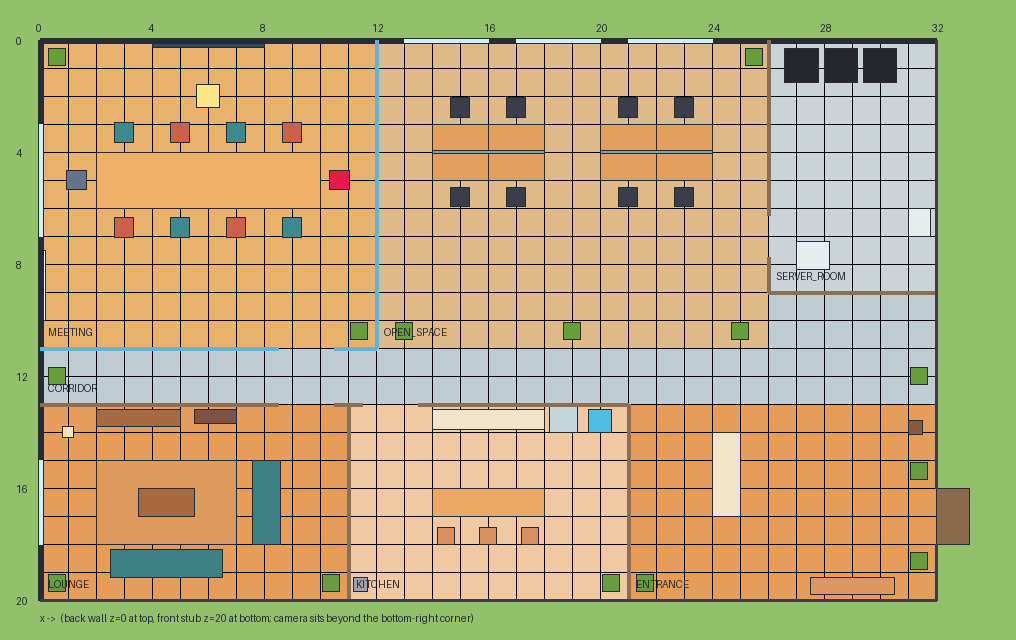
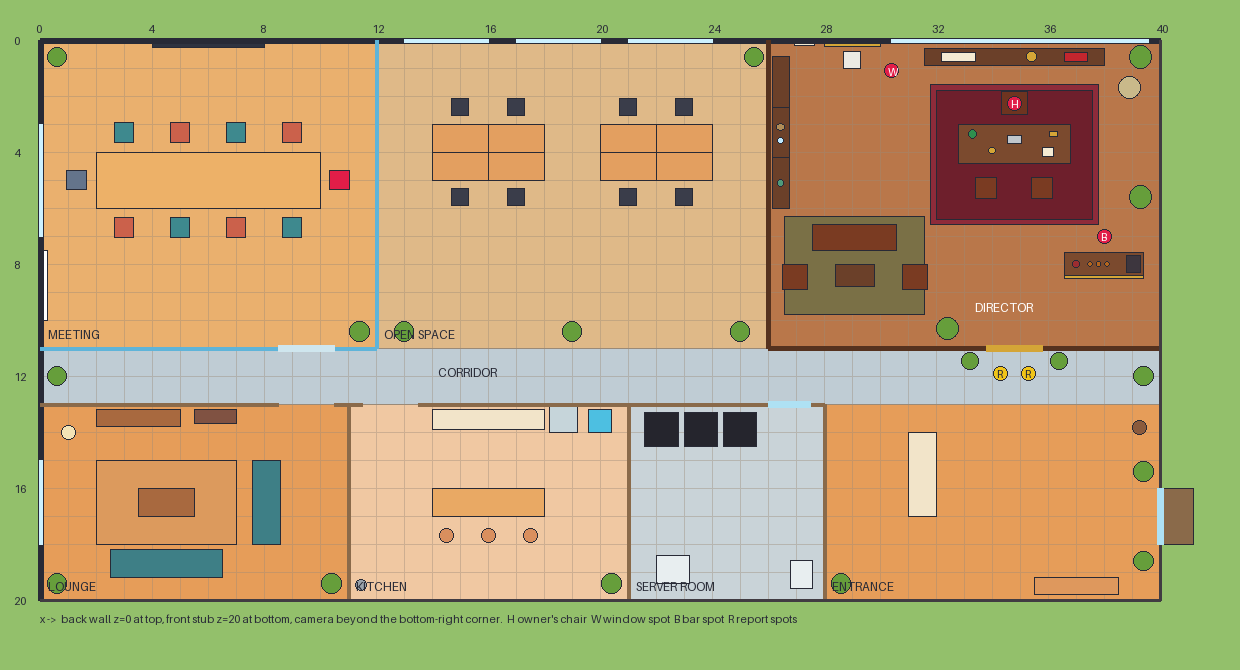
design: council office reference with the director's office (design-lead thr_vmeg8ixse2)

diff --git a/.agents/design/council-office/reference.md b/.agents/design/council-office/reference.md
@@ -4,69 +4,69 @@ Files in this folder:
 
 | File | What it is |
 |---|---|
-| `reference.jpg` | **Target look** (3168×1344, ≈21:9). Variant A, chosen. |
-| `plan.png` | Top-down plan drawn from the grid below. **Geometry comes from this file and this doc, not from the picture.** |
-| `reference.jpg` | Same as reference.jpg |
-| `variants/variant-b-meeting-centre.png` | Alternative: meeting room in the centre. Its floor is an irregular hexagon, which is harder to build and wastes width. Not chosen. |
-| `variants/variant-c-flash.png` | Cheaper-model draft. The open space is cropped at the top. Not chosen. |
-| `variants/prompt-a.txt` | Prompt used (Gemini 3 Pro Image, 21:9, 2K) |
+| `reference.jpg` | **Target look** (2400×1018, ≈21:9). Variant «v5-extend-a», chosen: variant A's floor extended to the right with the director's office. |
+| `plan.png` | Top-down plan drawn from the grid below (H/W/B/R mark the owner's spots and the report spots). **Geometry comes from this file and this doc, not from the picture.** |
 | `layout.md`, `wireframe.html` | Page layout around the office |
 
-**How to use the picture.** An image model drew it, so the perspective is not consistent: the glass walls and back walls slope differently, and the room proportions drift. Copy from the picture: the **style** (crisp dark outlines, flat two-tone shading, warm palette, chibi people), the **room set and their relative placement**, the **props**, and the **exterior lot** around the floor. Copy the **exact geometry** (sizes, doors, coordinates) from this doc.
+The full-size PNG, the rejected variants, the prompts and the plan script are kept out of the repo, in the design chat's folder `.bb/chats/thr_d6zg57egme/artifacts/council-office-design/`. The full-size PNG is `reference.png` (3168×1344), and `director-variants/` holds `v1`–`v5`, the prompts `p1`–`p5`, `gen.py` (Gemini 3 Pro Image, 21:9, 2K) and `plan.py`. The first floor without the director's office is `variants/variant-a-chosen.png`.
 
-Why variant A: it is a clean rectangle that maps onto one tile grid. All seven zones read at once. The meeting room is the biggest and brightest room, in the back-left corner where nothing occludes it. The floor fills the width, and grass, paving and sky fill the corners instead of a grey band.
+**How to use the picture.** An image model drew it, so the perspective is not consistent: the glass walls and back walls slope differently, and the room proportions drift. Copy from the picture: the **style** (crisp dark outlines, flat two-tone shading, warm palette, chibi people), the **room set and their relative placement**, the **props**, and the **exterior lot** around the floor. Copy the **exact geometry** (sizes, doors, coordinates) from this doc. Known differences in the picture: the entrance blends into the front of the director's office and has no reception desk (the doc has a closed director's office and a separate entrance); the director's door sits on the side partition (the doc puts it on the corridor wall); only part of the second desk cluster shows.
+
+Why v5-extend-a: of 7 tries (in `director-variants/`) it is the only one that kept every zone and all 8 desks while adding a rich director's office: walnut panelling, a double door, a bookshelf wall with statuettes, a panoramic window with a skyline, a credenza with a ship, a trophy and a model car, a bust, a globe, a Chesterfield corner, a bar with an espresso machine, and the owner at the desk. The others either replaced half the open space with the office (v1, v2), drifted in style (v3), or lost the lounge, kitchen or entrance (v4, v5-b).
 
 ---
 
 ## 1. Grid
 
-* 1 tile = 1 world unit. The floor is **32 tiles along X × 20 tiles along Z**.
-* Grid coords `(gx, gz)`: gx 0→32 from the left back wall to the right front edge, gz 0→20 from the back wall to the front edge.
-* World = `x = gx − 16`, `z = gz − 10`, `y` up, floor top at `y = 0`. This replaces today's 20×14 `FLOOR_BOUNDS` in `office-layout.ts`.
+* 1 tile = 1 world unit. The floor is **40 tiles along X × 20 tiles along Z** (it was 32×20; the director's office adds 8 tiles along X).
+* Grid coords `(gx, gz)`: gx 0→40 from the left back wall to the right front edge, gz 0→20 from the back wall to the front edge.
+* World = `x = gx − 20`, `z = gz − 10`, `y` up, floor top at `y = 0`. This replaces today's 20×14 `FLOOR_BOUNDS` in `office-layout.ts`.
 
 ```
      0         1         2         3
-     01234567890123456789012345678901
-z 0  MMMMMMMMMMMMOOOOOOOOOOOOOOSSSSSS     M meeting room (council)   12×11
-z 1  MMMMMMMMMMMMOOOOOOOOOOOOOOSSSSSS     O open space                14×11
-z 2  MMMMMMMMMMMMOOOOOOOOOOOOOOSSSSSS     S server room               6×9
-z 3  MMMMMMMMMMMMOOOOOOOOOOOOOOSSSSSS     C corridor (2 deep, full width + nook 6×2)
-z 4  MMMMMMMMMMMMOOOOOOOOOOOOOOSSSSSS     L lounge                    11×7
-z 5  MMMMMMMMMMMMOOOOOOOOOOOOOOSSSSSS     K kitchen / coffee point    10×7
-z 6  MMMMMMMMMMMMOOOOOOOOOOOOOOSSSSSS     E entrance / reception      11×7
-z 7  MMMMMMMMMMMMOOOOOOOOOOOOOOSSSSSS
-z 8  MMMMMMMMMMMMOOOOOOOOOOOOOOSSSSSS
-z 9  MMMMMMMMMMMMOOOOOOOOOOOOOOCCCCCC
-z10  MMMMMMMMMMMMOOOOOOOOOOOOOOCCCCCC
-z11  CCCCCCCCCCCCCCCCCCCCCCCCCCCCCCCC
-z12  CCCCCCCCCCCCCCCCCCCCCCCCCCCCCCCC
-z13  LLLLLLLLLLLKKKKKKKKKKEEEEEEEEEEE
-z14  LLLLLLLLLLLKKKKKKKKKKEEEEEEEEEEE
-z15  LLLLLLLLLLLKKKKKKKKKKEEEEEEEEEEE
-z16  LLLLLLLLLLLKKKKKKKKKKEEEEEEEEEEE
-z17  LLLLLLLLLLLKKKKKKKKKKEEEEEEEEEEE
-z18  LLLLLLLLLLLKKKKKKKKKKEEEEEEEEEEE
-z19  LLLLLLLLLLLKKKKKKKKKKEEEEEEEEEEE
+     0123456789012345678901234567890123456789
+z0   MMMMMMMMMMMMOOOOOOOOOOOOOODDDDDDDDDDDDDD     M meeting room (council)   12×11
+z1   MMMMMMMMMMMMOOOOOOOOOOOOOODDDDDDDDDDDDDD     O open space                14×11
+z2   MMMMMMMMMMMMOOOOOOOOOOOOOODDDDDDDDDDDDDD     D director's office        14×11  (owner)
+z3   MMMMMMMMMMMMOOOOOOOOOOOOOODDDDDDDDDDDDDD     C corridor (2 deep, full width 40)
+z4   MMMMMMMMMMMMOOOOOOOOOOOOOODDDDDDDDDDDDDD     L lounge                    11×7
+z5   MMMMMMMMMMMMOOOOOOOOOOOOOODDDDDDDDDDDDDD     K kitchen / coffee point    10×7
+z6   MMMMMMMMMMMMOOOOOOOOOOOOOODDDDDDDDDDDDDD     S server room               7×7
+z7   MMMMMMMMMMMMOOOOOOOOOOOOOODDDDDDDDDDDDDD     E entrance / reception      12×7
+z8   MMMMMMMMMMMMOOOOOOOOOOOOOODDDDDDDDDDDDDD
+z9   MMMMMMMMMMMMOOOOOOOOOOOOOODDDDDDDDDDDDDD
+z10  MMMMMMMMMMMMOOOOOOOOOOOOOODDDDDDDDDDDDDD
+z11  CCCCCCCCCCCCCCCCCCCCCCCCCCCCCCCCCCCCCCCC
+z12  CCCCCCCCCCCCCCCCCCCCCCCCCCCCCCCCCCCCCCCC
+z13  LLLLLLLLLLLKKKKKKKKKKSSSSSSSEEEEEEEEEEEE
+z14  LLLLLLLLLLLKKKKKKKKKKSSSSSSSEEEEEEEEEEEE
+z15  LLLLLLLLLLLKKKKKKKKKKSSSSSSSEEEEEEEEEEEE
+z16  LLLLLLLLLLLKKKKKKKKKKSSSSSSSEEEEEEEEEEEE
+z17  LLLLLLLLLLLKKKKKKKKKKSSSSSSSEEEEEEEEEEEE
+z18  LLLLLLLLLLLKKKKKKKKKKSSSSSSSEEEEEEEEEEEE
+z19  LLLLLLLLLLLKKKKKKKKKKSSSSSSSEEEEEEEEEEEE
 ```
 
-The open space has no wall to the corridor: the floor changes from carpet to vinyl, and three planters on gz 10.4 mark the edge. The entrance is also open to the corridor.
+The open space has no wall to the corridor: the floor changes from carpet to vinyl, and three planters on gz 10.4 mark the edge. The entrance is also open to the corridor. The director's office is the one closed room in the back row: walnut half walls on its west and south sides, and a door to the corridor. The server room moved from the back-right corner to the front row, between the kitchen and the entrance.
 
 ### Walls (on tile edges, grid coords)
 
 | Wall | Type | Line | Span | Openings |
 |---|---|---|---|---|
-| North back wall | back, full height **3.5**, thick 0.3 | gz = 0 | gx 0–32 | windows gx 13–16, 17–20, 21–24 (sill 0.9, top 2.9); wall screen gx 4–8 (y 1.3–2.6) |
+| North back wall | back, full height **3.5**, thick 0.3 | gz = 0 | gx 0–40 | windows gx 13–16, 17–20, 21–24 (sill 0.9, top 2.9); **panoramic window gx 30.4–39.6** (sill 0.6, top 3.2, 6 panes, mullions every 1.53, see §2 Director's office); wall screen gx 4–8 (y 1.3–2.6) |
 | West back wall | back, 3.5 | gx = 0 | gz 0–20 | windows gz 3–7 (meeting), gz 15–18 (lounge); whiteboard gz 7.5–10 (y 1.0–2.3) |
 | Meeting east | **glass**, 2.6 high, white frame posts every 2 tiles | gx = 12 | gz 0–11 | none |
 | Meeting south | **glass**, 2.6 | gz = 11 | gx 0–12 | glass double door **gx 8.5–10.5** |
-| Server west | half wall **1.4**, thick 0.2 | gx = 26 | gz 0–9 | door **gz 6.25–7.75**: door frame 2.2 high, door leaf open 90° |
-| Server south | half 1.4 | gz = 9 | gx 26–32 | none |
+| Director west | half wall **1.4**, thick 0.2, **walnut panelling** on both faces | gx = 26 | gz 0–11 | none |
+| Director south | half 1.4, walnut panelling | gz = 11 | gx 26–40 | **double door gx 33.8–35.8**: walnut leaves with brass handles, frame posts 2.4 high plus a 0.3 cornice over the opening; both leaves open inwards 90° (they stand along gx 33.8 and 35.8 between gz 10 and 11) |
 | Lounge north | half 1.4 | gz = 13 | gx 0–11 | doorway **gx 8.5–10.5** |
 | Lounge / kitchen | half 1.4 | gx = 11 | gz 13–20 | none |
 | Kitchen north | half 1.4 | gz = 13 | gx 11–21 | doorway **gx 11.5–13.5** |
-| Kitchen / entrance | half 1.4 | gx = 21 | gz 13–20 | none |
-| Front edge south | **stub 0.35** (cutaway) | gz = 20 | gx 0–32 | none |
-| Front edge east | stub 0.35 | gx = 32 | gz 0–20 | **entrance**: glass double door gz 16–18, frame posts 2.4 high, no lintel wall |
+| Kitchen / server | half 1.4 | gx = 21 | gz 13–20 | none |
+| Server north | half 1.4 (server wall colours) | gz = 13 | gx 21–28 | door **gx 26.0–27.5**: frame 2.2 high, glass leaf open 90° |
+| Server / entrance | half 1.4 | gx = 28 | gz 13–20 | none |
+| Front edge south | **stub 0.35** (cutaway) | gz = 20 | gx 0–40 | none |
+| Front edge east | stub 0.35 | gx = 40 | gz 0–20 | **entrance**: glass double door gz 16–18, frame posts 2.4 high, no lintel wall |
 
 Cutaway rule: only the north and west walls are full height. Every front-facing outer wall is a 0.35 stub. Interior walls stay at 1.4, so the rooms behind them stay visible at a 30° elevation (a 1.4 wall hides about 2.4 tiles behind it). Every wall top gets a dark cap (`outline`).
 
@@ -105,16 +105,68 @@ The floor slab is 0.5 thick. Its south and east sides show as a dark band (`slab
 
 gz 6–10 stays free: people walk there, and this area is where long-activity people stand and chat.
 
-### Server room
+### Director's office (the owner's cabinet, seat `owner`)
+The richest room on the floor: 14×11 (154 tiles; the meeting room is 132, the lounge 77, the server room 49). Floor: walnut parquet. Walls: walnut panelling on the two half walls; the north back wall stays cream around the panoramic window. Everything below is in grid coords; `+h` means it stands on the prop below.
+
+| # | Prop | Footprint / centre | h | Notes |
+|---|---|---|---|---|
+| 1 | **Panoramic window** | north wall gx 30.4–39.6 | sill 0.6, top 3.2 | 6 panes, white mullions every 1.53, diagonal highlight streaks; behind the glass a flat backdrop of skyline blocks and tree tops |
+| 2 | **Executive desk** | gx 32.8–36.8 × gz 3.0–4.4 | 0.8 | walnut, front modesty panel faces south (towards the door and the camera), 4 brass ball feet |
+| 3 | **Director's leather chair** (high back) | centre gx 34.8, gz 2.25, 0.9×0.8, faces south | seat 0.5, back 1.35 | tufted brown leather, brass studs. **Home point of `owner`** |
+| 4 | Guest chairs ×2 (leather) | centres gx 33.8 and 35.8, gz 5.3, 0.75×0.75, face north | back 1.0 | walnut frame, leather seat |
+| 5 | **Vintage desk lamp** (banker's lamp) | gx 33.3, gz 3.35 on the desk | +0.45 | brass stem, green glass shade, emissive `lamp glow` |
+| 6 | Laptop | gx 34.55–35.05 × gz 3.4–3.7 on the desk | +0.25 open | silver, screen `#77eaff` |
+| 7 | Gold «thinker» figurine | gx 34.0, gz 3.95 on the desk | +0.22 | gold |
+| 8 | Framed photo | gx 36.2, gz 3.35 on the desk | +0.2 | gold frame, faces north (towards the chair) |
+| 9 | Papers + pen set | gx 35.8–36.2 × gz 3.85–4.15 | flat | |
+| 10 | **Credenza** under the window | gx 31.6–38.0 × gz 0.3–0.9 | 0.75 | walnut, 4 doors, brass handles |
+| 11 | **Model sailing ship** | on the credenza, gx 32.2–33.4 × gz 0.45–0.75 | +0.6 | hull wood, 3 masts, cream sails, small stand |
+| 12 | **Trophy cup** (award) | on the credenza, gx 35.4, gz 0.6 | +0.55 | gold cup on a black base |
+| 13 | **Model car** (red vintage) | on the credenza, gx 36.6–37.4 × gz 0.45–0.75 | +0.2 | red body, chrome bumper |
+| 14 | **Bookshelf wall**: 3 built-in units | against the west wall, gx 26.15–26.75 × gz 0.6–2.4, 2.4–4.2, 4.2–6.0, face east | 2.4 | walnut; closed doors on the bottom 0.8; 4 shelves of books (book colours as the lounge bookshelf plus `leather` and `brass`) |
+| 15 | Bronze horse statuette | middle unit, shelf y 1.6, gx 26.45, gz 3.1 | 0.35 | bronze |
+| 16 | Crystal award (obelisk) | middle unit, shelf y 1.1, gx 26.45, gz 3.6 | 0.3 | crystal, opacity 0.8 |
+| 17 | Jade elephant figurine | south unit, shelf y 1.6, gx 26.45, gz 5.1 | 0.25 | jade |
+| 18 | **Marble bust on a pedestal** | pedestal gx 28.7–29.3 × gz 0.4–1.0 | pedestal 1.0 + bust 0.5 | marble column, classical head |
+| 19 | Gold-framed painting | north wall gx 28.0–30.0, y 1.8–2.9 | – | landscape canvas |
+| 20 | **Framed diplomas** ×2 | north wall gx 26.95–27.65, y 1.45–1.95 and y 2.15–2.65 | – | cream paper, walnut frame, red seal dot |
+| 21 | **Floor globe** on a stand | centre gx 38.9, gz 1.7, radius 0.4 | 1.1 (ball 0.6 on a 3-leg stand + brass meridian ring) | antique parchment ocean, olive land |
+| 22 | **Persian rug** under the desk | gx 31.8–37.8 × gz 1.6–6.6 | flat | burgundy field, gold border 0.2 wide, dark inner medallion |
+| 23 | Sitting-corner rug | gx 26.6–31.6 × gz 6.3–9.8 | flat | olive-brown |
+| 24 | **Chesterfield leather sofa** (3-seat) | gx 27.6–30.6 × gz 6.6–7.5, faces south | 0.85 | tufted brown leather, rolled arms |
+| 25 | Leather armchairs ×2 | gx 26.5–27.4 × gz 8.0–8.9 (faces east); gx 30.8–31.7 × gz 8.0–8.9 (faces west) | 0.85 | same leather |
+| 26 | Coffee table | gx 28.4–29.8 × gz 8.0–8.8 | 0.4 | walnut, a book and a small succulent on top |
+| 27 | **Mini bar / coffee corner** counter | gx 36.6–39.4 × gz 7.6–8.4 | 1.05 | walnut body, polished top, **brass foot rail** on the south face (gz 8.4–8.5, y 0.15) |
+| 28 | On the bar: decanter, 3 bottles, 2 glasses | decanter gx 37.0 gz 8.0; bottles gx 37.5, 37.8, 38.1 at gz 8.0; glasses gx 38.45 at gz 7.85 / 8.15 | +0.35 / +0.3 / +0.12 | decanter glass with red liquid, amber and green bottles |
+| 29 | Espresso machine | on the bar, gx 38.8–39.3 × gz 7.7–8.3 | +0.4 | dark body, brass details |
+| 30 | **Big plants** ×3 in brass pots | fiddle-leaf fig gx 39.3 gz 0.6 (h 1.9); bird of paradise gx 39.3 gz 5.6 (h 1.6); monstera gx 32.4 gz 10.3 (h 1.6) | | brass pots instead of terracotta |
+| 31 | Door plants ×2 (corridor side) | gx 33.2 and 36.4, gz 11.45, radius 0.3 | 1.3 | brass pots, they frame the door from the corridor |
+
+Interaction points (new; `assignedTo: "owner"` means nobody else may reserve them):
+
+| id | Where (grid) | Faces | Pose | Use |
+|---|---|---|---|---|
+| `pt_director_chair` | gx 34.8, gz 2.25 | south | `typing` (seated at a desk) | owner's home; `assignedTo: "owner"` |
+| `pt_director_window` | gx 30.4, gz 1.1 | north (back to the camera) | `window_gaze` | owner only |
+| `pt_director_bar` | gx 38.0, gz 7.0 (behind the bar, north side) | south | `drinking` | owner only |
+| `pt_director_report_1`, `_2` | gx 34.3 and 35.3, gz 11.9 (corridor, in front of the door) | north | `chatting` | council seats, «report» activity, capacity 1 each |
+
+Walking line inside the office: from the door (gx 33.8–35.8) straight north to the guest chairs, then around the east end of the desk (gx 37.0–37.4) to the chair. Keep gx 33.0–36.4 × gz 5.7–11 and gx 36.9–37.5 × gz 1.0–7.4 free of props.
+
+Occlusion check: the 2.4-high bookshelf hides the open-space floor at about gx 24–26 × gz 0–2.5 (only the plant at gx 25.5 gz 0.6, which may move to gx 24.6). The south half wall hides the office floor at gz 8.6–11, so the sofa corner sits at gz 6.3–9.8: the seat backs and the coffee table stay visible.
+
+### Server room (moved to the front row)
 | Prop | Footprint | h |
 |---|---|---|
-| Server racks ×3 | gx 26.6–27.8, 28.0–29.2, 29.4–30.6 × gz 0.3–1.5 | 2.4, green/blue LED rows |
-| Cable tray | along the north wall at y 2.8, gx 26.5–31.5 | posts down to each rack |
-| AC unit | gx 31.0–31.8 × gz 6–7 | 1.0 |
-| Printer | gx 27.0–28.2 × gz 7.2–8.2 | 0.9 (keeps `pt_printer`) |
+| Server racks ×3, faces south | gx 21.6–22.8, 23.0–24.2, 24.4–25.6 × gz 13.3–14.5 | 2.2, green/blue LED rows |
+| Cable tray | along the north wall at y 2.4, gx 21.5–25.8 | posts down to each rack |
+| AC unit | gx 26.8–27.6 × gz 18.6–19.6 | 1.0 |
+| Printer | gx 22.0–23.2 × gz 18.4–19.4 | 0.9; `pt_printer` at gx 22.6 gz 17.8, faces south |
+
+The racks rise above the 1.4 north wall and hide a strip of corridor floor behind them; nothing interactive stands there.
 
 ### Corridor
-Grey vinyl with a lighter edge strip. Plants at gx 0.6 gz 12 and gx 31.4 gz 12. Nothing else, so people can walk.
+Grey vinyl with a lighter edge strip. Plants at gx 0.6 gz 12 and gx 39.4 gz 12, plus the two brass-pot plants at the director's door (gx 33.2 and 36.4, gz 11.45). Nothing else, so people can walk.
 
 ### Lounge
 | Prop | Footprint | h |
@@ -140,21 +192,21 @@ Grey vinyl with a lighter edge strip. Plants at gx 0.6 gz 12 and gx 31.4 gz 12. 
 | Bin | gx 11.45 gz 19.45 | 0.5 |
 | Plant | gx 20.4 gz 19.4 | 1.2 |
 
-### Entrance / reception
+### Entrance / reception (shifted right: now gx 28–40)
 | Prop | Footprint | h |
 |---|---|---|
-| Reception desk (faces east to the door) | gx 24–25 × gz 14–17 | 1.0, monitor on top |
-| Coat stand with 2 coats | gx 31.25 gz 13.85 | 1.7 |
-| Bench | gx 27.5–30.5 × gz 19.2–19.8 | 0.45 |
+| Reception desk (faces east to the door) | gx 31–32 × gz 14–17 | 1.0, monitor on top |
+| Coat stand with 2 coats | gx 39.25 gz 13.85 | 1.7 |
+| Bench | gx 35.5–38.5 × gz 19.2–19.8 | 0.45 |
 | Glass double door | east stub gz 16–18 | 2.4 |
-| Doormat (outside) | gx 32–33.2 × gz 16–18 | flat |
-| Plants | gx 31.4 gz 15.4, gx 31.4 gz 18.6, gx 21.6 gz 19.4 | 1.2 |
-| Chat spot (2 people) | gx 28 gz 15 | keeps `pt_chat_entrance` |
+| Doormat (outside) | gx 40–41.2 × gz 16–18 | flat |
+| Plants | gx 39.4 gz 15.4, gx 39.4 gz 18.6, gx 28.6 gz 19.4 | 1.2 |
+| Chat spot (2 people) | gx 35 gz 15 | keeps `pt_chat_entrance` |
 
 ### Exterior lot (fills the corners of the frame)
-* A ground plane of **80×80** under the slab at `y = −0.5`, in grass. The camera never shows its edge.
-* A paving path 3 tiles wide from the entrance door (gx 33–80, gz 15.5–18.5), and paving along the south edge (gz 21–23) running out of frame.
-* Round trees (canopy is a 1.4 low-poly sphere or an octagon of boxes, trunk 0.3) at (−4, 6), (−3, 16), (8, 23), (26, 24), (36, 8), (40, 22). A street lamp at (35, 21). Small flower bushes along the slab edge.
+* A ground plane of **100×100** under the slab at `y = −0.5`, in grass. The camera never shows its edge.
+* A paving path 3 tiles wide from the entrance door (gx 41–90, gz 15.5–18.5), and paving along the south edge (gz 21–23) running out of frame.
+* Round trees (canopy is a 1.4 low-poly sphere or an octagon of boxes, trunk 0.3) at (−4, 6), (−3, 16), (8, 23), (30, 24), (44, 6), (48, 22) (grid coords). A street lamp at (43, 21). Small flower bushes along the slab edge.
 * Scene background = `sky`. No fog.
 
 ---
@@ -183,6 +235,9 @@ Base colour = what the lit top face shows (use it as the material colour). The s
 | Open space (north wall) | `#f7edd2` | `#e6cfaf` | windows: glass `#cdf1ff`, frame `#ffffff`, trees outside `#9fcf7a` |
 | Server room walls | `#e8eef0` | `#cfd8dd` | door `#aee1f4` glass in `#e1e7ea` frame |
 | Lounge / kitchen / entrance partitions | `#f9eed2` | `#e6cfaf` | top cap `#282a36` |
+| Director half walls (walnut panelling) | `#7a4a2e` | `#5e3721` | raised panels `#8a5a3c` with groove lines `#4a2a18`; top cap `#282a36`; brass trim line at y 1.3 `#d4a537` |
+| Director door | leaves `#6b4029`, panels `#7b4a2e` | `#55321f` | handles `#d4a537`; frame + cornice `#5e3721` |
+| Director panoramic window | glass `#cdf1ff` opacity 0.55 | – | mullions `#ffffff`; backdrop skyline `#9fb3c8` / `#b8c8d8`, tree tops `#9fcf7a` |
 | Front stubs | `#e6cfaf` | `#d1b893` | cap `#282a36` |
 
 ### Floors per zone
@@ -190,8 +245,9 @@ Base colour = what the lit top face shows (use it as the material colour). The s
 |---|---|---|
 | Meeting | honey wood `#eab06e` | plank lines `#cf8f4f` every 0.5 tile |
 | Open space | beige carpet `#dfb988` | speckle `#cba57a` |
+| Director's office | walnut parquet `#b9774a` | straight plank lines `#8f5532` every 0.5 tile |
 | Server room | light raised floor `#c9d3d8` | 1-tile grid `#aab6bd` |
-| Corridor + nook | grey vinyl `#bfccd4` | edge strip `#a9b8c2` |
+| Corridor | grey vinyl `#bfccd4` | edge strip `#a9b8c2` |
 | Lounge | warm wood `#e69d59` | plank lines `#c27e4a` |
 | Kitchen | tile `#f0c8a2` | grout `#d9a982` every 1 tile |
 | Entrance | warm wood `#e69d59` | plank lines `#c27e4a`; doormat `#8a6a4a` |
@@ -229,6 +285,29 @@ Base colour = what the lit top face shows (use it as the material colour). The s
 | Entrance door | glass `#aee1f4`, frame `#e1e7ea` |
 | Plants | leaf `#669e3b`, leaf shade `#518530`, pot `#ce6b4e` (or teal `#3e898e`), soil `#5a3d2b` |
 
+#### Director's office (shared tokens)
+| Token | Base | Shade / detail | Used for |
+|---|---|---|---|
+| `walnut` | `#7b4a2e` | `#5e3721` | executive desk, credenza, bar body, coffee table, bookshelf units (body `#6b4029`) |
+| `walnut top` | `#8f5a38` | edge `#6b4029` | desk / credenza / bar tops (polished) |
+| `leather` | `#7a3b22` | `#5c2a17`; tufting dots `#4a2112` | sofa, armchairs, guest chairs |
+| `leather dark` | `#6e3420` | `#4f2416`; studs `#d4a537` | director's chair |
+| `brass` | `#d4a537` | `#a87b1f`; highlight `#f2d37a` | handles, foot rail, trims, lamp stem, plant pots, globe ring |
+| `gold` | `#e8b923` | `#b88a14`; highlight `#fff0a8` | trophy cup, thinker figurine, painting frame |
+| `bronze` | `#b08d57` | `#7d5f33` | horse statuette |
+| `marble` | `#eceae4` | `#c9c5bb` | bust and pedestal |
+| `crystal` | `#bfe9ff` | `#8fcbe8` | crystal award (opacity 0.8), glasses |
+| `jade` | `#4f9a7a` | `#3a7a5e` | elephant figurine |
+| `rug burgundy` | `#8e2b3a` | inner `#6e1f2c`; border `#d4a537`; medallion `#3e898e` | Persian rug |
+| `rug olive` | `#7a7046` | border `#5e5636` | sitting-corner rug |
+| `lamp glow` | shade `#2f8f4e` | emissive `#9be7b0` 0.4 | banker's lamp |
+| `globe` | ocean `#c9b98a` | land `#8a9a5b`; stand `#5c3a24` | floor globe |
+| `ship` | hull `#8a5a3c` | sails `#f4ead2`, masts `#5c3a24` | model ship |
+| `car red` | `#c3262e` | `#8f1b22`; chrome `#d9dde2` | model car |
+| `bottles` | amber `#b5651d`, green `#3f6e3a` | decanter glass `#e3f1f5` with `#9b2d30` | mini bar |
+| `paper` | `#f4ead2` | seal `#c3182a` | diplomas, papers |
+| `canvas` | `#9fcf7a` | sky `#f0c070` | painting |
+
 ### People (chibi, about 2 heads tall)
 | Part | Colour |
 |---|---|
@@ -244,13 +323,38 @@ Size: 1.15 total height. Legs 0.4, torso 0.5×0.45×0.32, head a 0.42 cube with 
 ## 4. Camera, light and pixel look
 
 * `OrthographicCamera`. Direction from the target: **azimuth 33°** from +Z towards +X, **elevation 30°**. Offset = `R · (0.4716, 0.5, 0.7263)`, so with R = 60, camera at target + (28.3, 30.0, 43.6). This is the picture's view: the long north wall runs almost flat across the screen (slope ≈ 0.32) and the west wall drops steeper (≈ 0.77). Today's (12,14,12) 45° view cannot fill a wide block.
-* Target = floor centre (0, 0, 0). The projected bounds of slab + back walls are **37.7 × 20.6 units (1.83:1)**, centred 1.3 units above the target on screen. Shift the frustum by that.
-* **Fit = contain + 3 % padding**: `viewHeight = max(20.6, 37.7 / aspect) × 1.03`. A 1280×700 block (1.83) fits exactly. A 21:9 block shows the lot on both sides, and a tall block shows the lot above and below. No grey band at any size.
-* Mobile (block narrower than 640): start at **cover-height** zoom (`viewHeight = 20.6 × 1.03`) centred on the meeting table (world −10, 0, −5). One-finger drag pans, pinch zooms (clamp 1×–2.5× of contain). A «⌖» button recentres.
+* Target = floor centre (0, 0, 0) (= grid gx 20, gz 10). The projected bounds of slab + back walls are **44.4 × 22.7 units (1.95:1)** for the 40×20 floor (were 37.7 × 20.6 for 32×20), centred 1.3 units above the target on screen. Shift the frustum by that.
+* **Fit = contain + 3 % padding**: `viewHeight = max(22.7, 44.4 / aspect) × 1.03`. A 1280×656 block (1.95) fits exactly. A 21:9 block shows the lot on both sides, and a tall block shows the lot above and below. No grey band at any size.
+* Mobile (block narrower than 640): start at **cover-height** zoom (`viewHeight = 22.7 × 1.03`) centred on the meeting table (world −14, 0, −5). One-finger drag pans, pinch zooms (clamp 1×–2.5× of contain). A «⌖» button recentres.
 * Light: `AmbientLight(#ffffff, 0.72)` + `DirectionalLight(#fff5ea, 0.45)` from direction (1.0, 2.0, 0.35), so tops are brightest, +X faces lit and +Z faces one step darker (the wall pair `#f7edd2` / `#e6cfaf` above). No shadows. `MeshLambertMaterial` only.
 * Pixel look: `renderer.setPixelRatio(0.5)` on ≥ 768 (1 render pixel = 2 CSS px) and `0.75` below. Canvas CSS `image-rendering: pixelated`, `antialias: false`. HTML overlays (tags, bubbles) stay crisp on top.
 * Outlines: `EdgesGeometry(geom, 30)` + `LineBasicMaterial(#282a36)` on every box and person. At pixel ratio 0.5 they come out as 2 CSS px lines, like the picture.
 
-## 5. Out of scope for the scene
+## 5. Behaviour: the owner and the director's office
+
+Today `deriveOfficeActors` (`office-behaviour.ts`) adds the `owner` body only after the owner has written in the council, and `stepOfficeSimulation` (`office-layout.ts`) sends everyone to a meeting seat while a council is active. With the office, the rules change as follows.
+
+### The `owner` character
+* **Always on the floor.** He is drawn on every council page (also with no owner messages, also for the empty floor), with his tag (`seatColor("owner")`, rose shirt) and the same chibi body as everyone else.
+* **Home = the director's chair** `pt_director_chair`. He spawns there, seated at the desk (`typing` pose, laptop open), and returns there after every errand. He never uses the open-space desks, the kitchen, the lounge sofas or the corridor chat spots, and nobody else may reserve his points (`assignedTo: "owner"`).
+* **Idle loop** (no owner message active): chair 90–240 s → then a weighted pick: 60 % stay at the chair for another round, 25 % `pt_director_window` for 15–30 s (`window_gaze`, back to the camera, looking at the skyline), 15 % `pt_director_bar` for 20–40 s (`drinking`: pours, sips) → back to the chair. He does not leave the office in the idle loop.
+* **The meeting room only when he speaks.** The council-active override does **not** apply to him. He walks to the meeting room only when:
+  1. **live**: the owner's message is the active one (the latest message is his, or the composer has just sent one), or
+  2. **replay**: the replay cursor is on one of his messages.
+  
+  Then he walks from the chair → office door (gx 34.8, gz 10.5) → corridor west along gz 12 → meeting glass door (gx 9.5, gz 11) → head chair «owner» (gx 10.7, gz 5, faces west) and plays `speaking` / `arguing` like any seat. The route is ≈ 41 tiles: he walks at **3.5 tiles/s** («hurry»; the others use `WALK_SPEED` 2.0), so it takes about 12 s. His bubble is shown from the moment the message becomes active and follows his head while he walks. In replay, if the cursor moves on before he arrives, or the user jumps (⏭, clicking a message), he snaps to the target point instead of walking.
+* **Going back.** He stays in his meeting chair while any of the next 2 messages after his is a `reply` facing him, then for 15 s more. Once no owner message has been active for 15 s (live) or the replay cursor leaves his messages and is not on a reply to him, he walks back to `pt_director_chair` at the normal speed of 2.0. If a council ends (`done` / `failed` / `stopped`), he goes home too.
+* Clicking his tag or his seat line in «Участники» highlights him wherever he is, as for any seat (`onSelectSpeaker`).
+
+### «Report» visits by council seats
+* A new short activity for council seats (not the moderator, not `chair`, not ambient people): `report`. The seat walks to a free `pt_director_report_1` / `_2` in the corridor in front of the director's door, stands facing north (`chatting` pose, a small `…` or `!` reaction over the head) for **8–15 s**, then goes back to its previous point.
+* Only while the owner is at home in the office (not walking, not in the meeting room). While a council is active, a seat may report only when it is not the speaker, not the next speaker, and not addressed by the latest `reply`. At most one report per seat per 3 minutes, and at most 2 at once (one per point).
+* Weight: in the ambient loop after a desk stint, `report` takes 10 % (taken from the «window» share: coffee 35 %, sofa 30 %, window 10 %, chat 15 %, report 10 %).
+* When the owner leaves for the meeting room, any seat standing at a report point leaves at once (yields the door).
+* Visitors never enter the office; the door leaves stay open, the office is the owner's.
+
+`AgentActivity` gets `report`, and `InteractionPointKind` gets `director_chair`, `bar` and `report`. Reuse the existing poses. `ZoneKind` gets `director`.
+
+## 6. Out of scope for the scene
 * No text or logos inside the 3D scene. Names, bubbles and the moderator notice stay HTML overlays (see `layout.md`).
 * The WebGL fallback stays as today but sits on the `sky` colour instead of grey.

diff --git a/.agents/design/council-office/layout.md b/.agents/design/council-office/layout.md
@@ -50,7 +50,7 @@ No second row at any width. With the drawer docked on 1280 the bar shortens, and
 | Block width | Mode | Size | Office |
 |---|---|---|---|
 | ≥ 1100 | **docked right drawer**, open by default | 380 px wide, full height under the top bar (top 60, bottom 8, right 8) | canvas keeps `inset:0`; the camera fits into the **free area** (block width − 396), so the drawer never covers the meeting room. Pixel lever: `camera.setViewOffset` or a narrower fit width |
-| 641–1099 | **overlay right drawer**, closed by default | 340 px, same top/bottom | not refitted, the drawer covers the right part (server room / entrance). Click on the canvas closes it |
+| 641–1099 | **overlay right drawer**, closed by default | 340 px, same top/bottom | not refitted, the drawer covers the right part (director's office / entrance). Click on the canvas closes it |
 | ≤ 640 | **bottom sheet** | peek 84 px → half 55 % → full (block height − 64) | canvas fills the block above the peek. Drag the sheet or tap the peek to change state |
 
 The open/closed state is kept in `localStorage` (`lane-pilot:council:drawer`) per mode.
